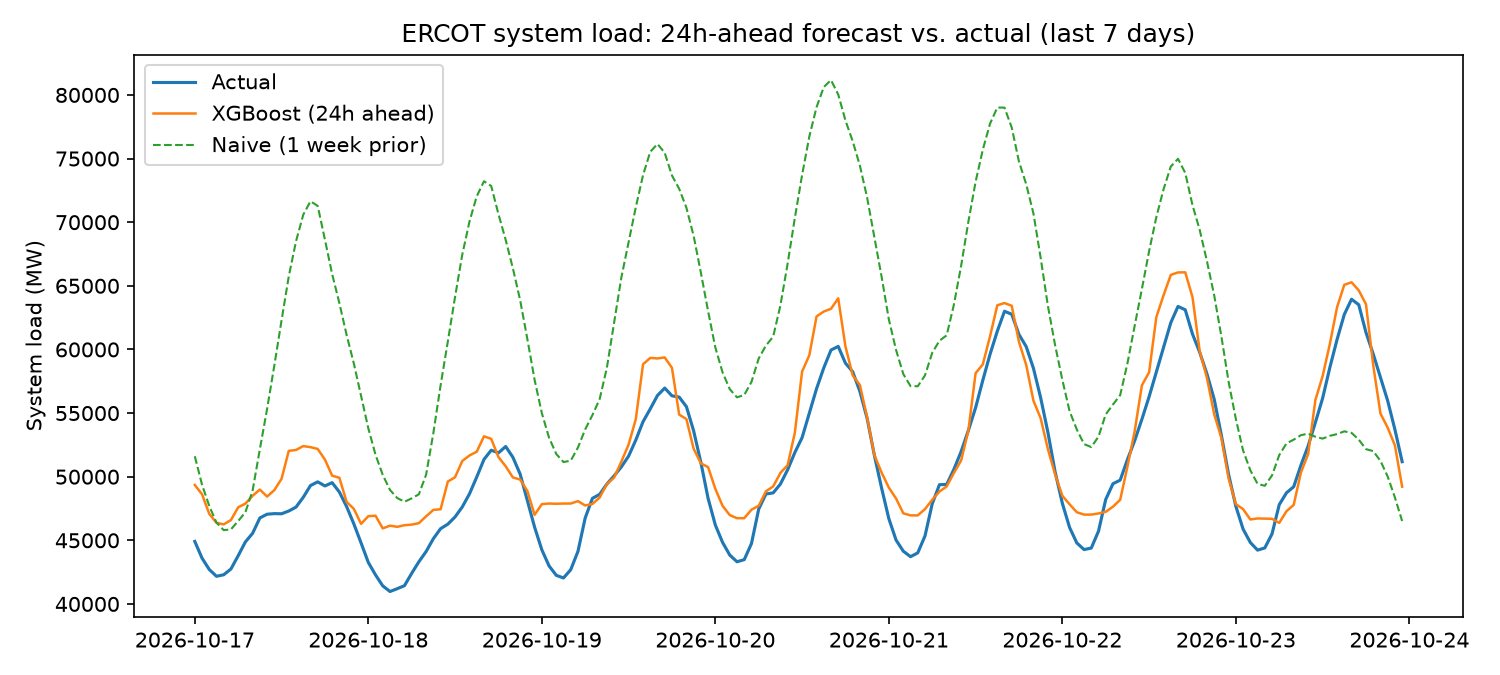
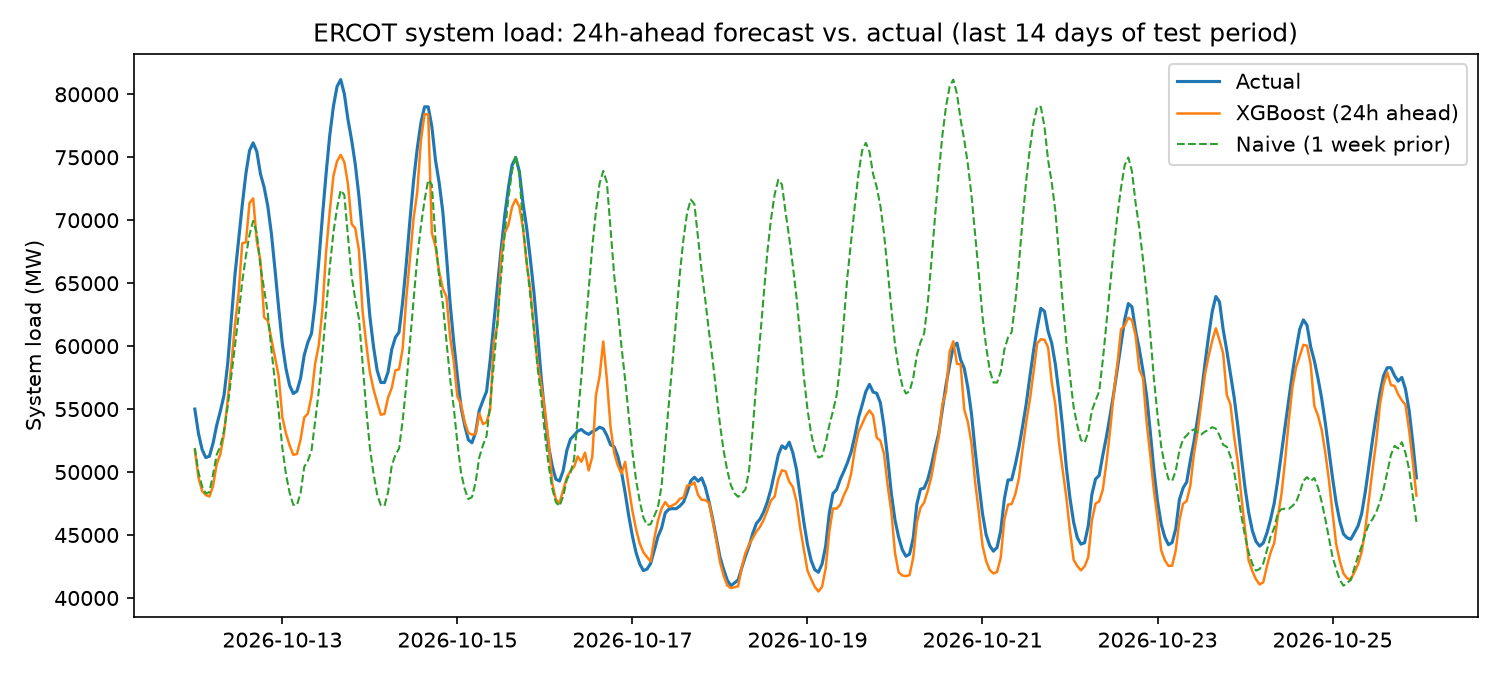
v1: backtest across a seasonal transition, not one week
Pull ~2.5 years of history by combining ERCOT's static annual load
archives with the live feed for the trailing gap, instead of the
~30 days the live feed alone retains. Re-evaluate on a 90-day held-out
window and break results out by month: the model roughly ties the
naive baseline in stable summer weather and pulls far ahead once
temperatures start swinging in October (4.15% vs 14.99% MAPE).

diff --git a/scripts/train_baseline.py b/scripts/train_baseline.py
@@ -1,10 +1,13 @@
 """Train a 24-hour-ahead ERCOT load forecast and compare it to a naive
 weekly-seasonal baseline (load exactly 7 days before the target hour).
 
-Simplification for v0: uses the actual recorded temperature at the target
-hour as a stand-in for a weather *forecast*, since Open-Meteo's forecast
-archive and historical archive aren't the same endpoint. A real forecast
-feed is a known v1 upgrade (see README).
+v1: trains on ~2.5 years of history (2024 through mid-2026) and holds out
+the most recent 90 days as test, so the evaluation spans a real seasonal
+transition (summer heat into fall) rather than one week of one regime.
+
+Simplification carried over from v0: uses the actual recorded temperature
+at the target hour as a stand-in for a weather *forecast*. A real forecast
+feed is still a known follow-up (see README).
 """
 
 from pathlib import Path
@@ -15,7 +18,7 @@ from sklearn.metrics import mean_absolute_error, mean_absolute_percentage_error
 from xgboost import XGBRegressor
 
 HORIZON_HOURS = 24
-TEST_HOURS = 24 * 7  # last 7 days held out
+TEST_DAYS = 90
 
 ROOT = Path(__file__).resolve().parent.parent
 RAW_PATH = ROOT / "data" / "raw" / "ercot_load_weather.csv"
@@ -33,6 +36,7 @@ def build_features(df: pd.DataFrame) -> pd.DataFrame:
 
     out["target_hour"] = df["hour"].shift(-HORIZON_HOURS)
     out["target_dow"] = df["dow"].shift(-HORIZON_HOURS)
+    out["target_month"] = out["target_time"].dt.month
     out["target_is_weekend"] = out["target_dow"].isin([5, 6]).astype(int)
     out["target_temp_c"] = df["temp_c"].shift(-HORIZON_HOURS)
 
@@ -47,37 +51,73 @@ def main() -> None:
     raw = pd.read_csv(RAW_PATH, parse_dates=["Time"])
     data = build_features(raw)
 
-    feature_cols = ["target_hour", "target_dow", "target_is_weekend", "target_temp_c", "load_now", "load_week_before_target"]
-    train = data.iloc[: -TEST_HOURS]
-    test = data.iloc[-TEST_HOURS:]
+    feature_cols = [
+        "target_hour", "target_dow", "target_is_weekend", "target_month",
+        "target_temp_c", "load_now", "load_week_before_target",
+    ]
 
-    model = XGBRegressor(n_estimators=200, max_depth=4, learning_rate=0.05)
+    cutoff = data["target_time"].max() - pd.Timedelta(days=TEST_DAYS)
+    train = data[data["target_time"] <= cutoff]
+    test = data[data["target_time"] > cutoff]
+
+    model = XGBRegressor(n_estimators=300, max_depth=5, learning_rate=0.05)
     model.fit(train[feature_cols], train["target"])
 
-    pred_model = model.predict(test[feature_cols])
-    pred_naive = test["load_week_before_target"].to_numpy()
-    actual = test["target"].to_numpy()
+    test = test.copy()
+    test["pred_model"] = model.predict(test[feature_cols])
+    test["pred_naive"] = test["load_week_before_target"]
 
-    mae_model = mean_absolute_error(actual, pred_model)
-    mae_naive = mean_absolute_error(actual, pred_naive)
-    mape_model = mean_absolute_percentage_error(actual, pred_model)
-    mape_naive = mean_absolute_percentage_error(actual, pred_naive)
+    mae_model = mean_absolute_error(test["target"], test["pred_model"])
+    mae_naive = mean_absolute_error(test["target"], test["pred_naive"])
+    mape_model = mean_absolute_percentage_error(test["target"], test["pred_model"])
+    mape_naive = mean_absolute_percentage_error(test["target"], test["pred_naive"])
 
-    print(f"Rows: train={len(train)}, test={len(test)}")
+    print(f"Train: {train['target_time'].min().date()} to {train['target_time'].max().date()} ({len(train)} rows)")
+    print(f"Test:  {test['target_time'].min().date()} to {test['target_time'].max().date()} ({len(test)} rows)")
     print(f"Naive (same hour, 1 week prior):  MAE={mae_naive:,.0f} MW  MAPE={mape_naive:.2%}")
     print(f"XGBoost (24h ahead):               MAE={mae_model:,.0f} MW  MAPE={mape_model:.2%}")
 
+    # Monthly breakdown — does accuracy hold up across the summer->fall transition?
+    test["month"] = test["target_time"].dt.to_period("M")
+    monthly = test.groupby("month").apply(
+        lambda g: pd.Series({
+            "mape_model": mean_absolute_percentage_error(g["target"], g["pred_model"]),
+            "mape_naive": mean_absolute_percentage_error(g["target"], g["pred_naive"]),
+        }),
+        include_groups=False,
+    )
+    print("\nMonthly MAPE:")
+    print(monthly.to_string(float_format=lambda x: f"{x:.2%}"))
+
     RESULTS_DIR.mkdir(exist_ok=True)
-    fig, ax = plt.subplots(figsize=(10, 4.5))
-    ax.plot(test["target_time"], actual, label="Actual", linewidth=1.5)
-    ax.plot(test["target_time"], pred_model, label="XGBoost (24h ahead)", linewidth=1.2)
-    ax.plot(test["target_time"], pred_naive, label="Naive (1 week prior)", linewidth=1, linestyle="--")
-    ax.set_ylabel("System load (MW)")
-    ax.set_title("ERCOT system load: 24h-ahead forecast vs. actual (last 7 days)")
+
+    # Monthly MAPE bar chart — the headline v1 result (seasonal robustness)
+    fig, ax = plt.subplots(figsize=(9, 4.5))
+    x = range(len(monthly))
+    width = 0.35
+    ax.bar([i - width / 2 for i in x], monthly["mape_naive"] * 100, width, label="Naive (1 week prior)")
+    ax.bar([i + width / 2 for i in x], monthly["mape_model"] * 100, width, label="XGBoost (24h ahead)")
+    ax.set_xticks(list(x))
+    ax.set_xticklabels([str(m) for m in monthly.index], rotation=45, ha="right")
+    ax.set_ylabel("MAPE (%)")
+    ax.set_title(f"24h-ahead forecast error by month (test: last {TEST_DAYS} days)")
     ax.legend()
     fig.tight_layout()
-    fig.savefig(RESULTS_DIR / "forecast_vs_actual.png", dpi=150)
-    print(f"Saved plot to {RESULTS_DIR / 'forecast_vs_actual.png'}")
+    fig.savefig(RESULTS_DIR / "mape_by_month.png", dpi=150)
+    print(f"\nSaved {RESULTS_DIR / 'mape_by_month.png'}")
+
+    # Zoomed-in 14-day snippet for a readable actual-vs-predicted view
+    snippet = test.tail(24 * 14)
+    fig2, ax2 = plt.subplots(figsize=(10, 4.5))
+    ax2.plot(snippet["target_time"], snippet["target"], label="Actual", linewidth=1.5)
+    ax2.plot(snippet["target_time"], snippet["pred_model"], label="XGBoost (24h ahead)", linewidth=1.2)
+    ax2.plot(snippet["target_time"], snippet["pred_naive"], label="Naive (1 week prior)", linewidth=1, linestyle="--")
+    ax2.set_ylabel("System load (MW)")
+    ax2.set_title("ERCOT system load: 24h-ahead forecast vs. actual (last 14 days of test period)")
+    ax2.legend()
+    fig2.tight_layout()
+    fig2.savefig(RESULTS_DIR / "forecast_vs_actual.png", dpi=150)
+    print(f"Saved {RESULTS_DIR / 'forecast_vs_actual.png'}")
 
 
 if __name__ == "__main__":

diff --git a/scripts/fetch_data.py b/scripts/fetch_data.py
@@ -1,9 +1,17 @@
-"""Pull recent ERCOT system load and matching Austin weather, save to data/raw/.
+"""Pull ~3 years of ERCOT system load and matching Austin weather.
 
-ERCOT's public document feed only retains ~30 days of history for the
-"Actual System Load by Weather Zone" report, so this script always pulls
-the trailing LOOKBACK_DAYS window. Re-run periodically and append if you
-want a longer accumulated history.
+Combines two ERCOT sources to get continuous history instead of the ~30
+days available from the live feed alone:
+
+  1. Static annual "Native Load" archives (ercot.com/gridinfo/load/load_hist)
+     - full years, posted with a settlement lag, no auth required.
+  2. The live "Actual System Load by Weather Zone" document feed (via
+     gridstatus) for the trailing window not yet covered by an archive.
+
+NOTE: the archive URLs below are current as of Oct 2026. ERCOT doesn't
+expose a stable index of these files, so the URL for the in-progress
+year will need updating periodically (the "-1-" suffix the current-year
+file uses is a hard-coded versioning quirk, not a predictable pattern).
 """
 
 import os
@@ -20,12 +28,47 @@ import gridstatus  # noqa: E402
 import pandas as pd  # noqa: E402
 import requests  # noqa: E402
 
-LOOKBACK_DAYS = 28
+ARCHIVE_URLS = [
+    "https://www.ercot.com/files/docs/2024/02/06/Native_Load_2024.zip",
+    "https://www.ercot.com/files/docs/2025/02/11/Native_Load_2025.zip",
+    "https://www.ercot.com/files/docs/2026/02/10/Native_Load_2026-1-.zip",
+]
+
 AUSTIN_LAT, AUSTIN_LON = 30.27, -97.74
-RAW_DIR = Path(__file__).resolve().parent.parent / "data" / "raw"
+ROOT = Path(__file__).resolve().parent.parent
+RAW_DIR = ROOT / "data" / "raw"
+CACHE_DIR = RAW_DIR / "_archive_cache"
 
 
-def fetch_ercot_load(start: date, end: date) -> pd.DataFrame:
+def fetch_archive_year(url: str) -> pd.DataFrame:
+    CACHE_DIR.mkdir(parents=True, exist_ok=True)
+    fname = CACHE_DIR / Path(url).name
+    if not fname.exists():
+        resp = requests.get(url, headers={"User-Agent": "Mozilla/5.0 (research)"}, timeout=60)
+        resp.raise_for_status()
+        fname.write_bytes(resp.content)
+
+    xlsx_path = fname.with_suffix(".xlsx")
+    if not xlsx_path.exists():
+        import zipfile
+
+        with zipfile.ZipFile(fname) as zf:
+            xlsx_name = [n for n in zf.namelist() if n.endswith(".xlsx")][0]
+            zf.extract(xlsx_name, CACHE_DIR)
+            (CACHE_DIR / xlsx_name).rename(xlsx_path)
+
+    df = pd.read_excel(xlsx_path)
+    date_part = df["Hour Ending"].str.slice(0, 10)
+    hour_part = df["Hour Ending"].str.slice(11, 13).astype(int)
+    # Hour Ending HH means the hour that just ended at HH:00; the hour
+    # *started* at HH-1:00 on the same calendar date (24:00 -> 23:00 start,
+    # still same date under this convention).
+    base_date = pd.to_datetime(date_part, format="%m/%d/%Y")
+    df["Time"] = base_date + pd.to_timedelta(hour_part - 1, unit="h")
+    return df[["Time", "ERCOT"]].rename(columns={"ERCOT": "load_mw"})
+
+
+def fetch_live_load(start: date, end: date) -> pd.DataFrame:
     iso = gridstatus.Ercot()
     df = iso.get_load_by_weather_zone(start.isoformat(), end=end.isoformat())
     df = df[["Time", "System Total"]].rename(columns={"System Total": "load_mw"})
@@ -44,7 +87,7 @@ def fetch_weather(start: date, end: date) -> pd.DataFrame:
             "hourly": "temperature_2m",
             "timezone": "America/Chicago",
         },
-        timeout=30,
+        timeout=60,
     )
     resp.raise_for_status()
     hourly = resp.json()["hourly"]
@@ -52,14 +95,26 @@ def fetch_weather(start: date, end: date) -> pd.DataFrame:
 
 
 def main() -> None:
-    end = date.today() - timedelta(days=1)
-    start = end - timedelta(days=LOOKBACK_DAYS)
+    print("Fetching static archives (2024-2026)...")
+    archive_frames = [fetch_archive_year(url) for url in ARCHIVE_URLS]
+    archive_df = pd.concat(archive_frames).drop_duplicates("Time").sort_values("Time")
+    archive_end = archive_df["Time"].max().date()
 
-    print(f"Fetching ERCOT load {start} to {end}...")
-    load_df = fetch_ercot_load(start, end)
+    live_start = archive_end + timedelta(days=1)
+    live_end = date.today() - timedelta(days=1)
+    if live_start <= live_end:
+        print(f"Fetching live feed {live_start} to {live_end} (post-archive gap)...")
+        live_df = fetch_live_load(live_start, live_end)
+        load_df = pd.concat([archive_df, live_df]).drop_duplicates("Time").sort_values("Time")
+    else:
+        load_df = archive_df
 
-    print(f"Fetching Austin weather {start} to {end}...")
-    weather_df = fetch_weather(start, end)
+    overall_start = load_df["Time"].min().date()
+    overall_end = load_df["Time"].max().date()
+    print(f"Combined load history: {overall_start} to {overall_end} ({len(load_df)} hourly rows)")
+
+    print("Fetching Austin weather for the full span...")
+    weather_df = fetch_weather(overall_start, overall_end)
 
     merged = pd.merge(load_df, weather_df, on="Time", how="inner").sort_values("Time")
 

diff --git a/README.md b/README.md
@@ -3,34 +3,45 @@
 Short-horizon (24h-ahead) load forecasting for the Texas grid, benchmarked
 against a naive seasonal baseline.
 
-Status: **v0 — working prototype.** Part of [Bat City AI](https://batcityai.com)'s
-Year One programs.
+Status: **v1 — backtested across a seasonal transition.** Part of
+[Bat City AI](https://batcityai.com)'s Year One programs.
 
 ## Result (most recent run)
 
-24-hour-ahead forecast vs. a naive "same hour, one week prior" baseline,
-evaluated on the trailing 7 days held out of training:
+Trained on ~2.5 years of hourly data (Jan 2024 – Jul 2026), evaluated on the
+trailing 90 days held out of training — a window that itself spans the
+transition from summer heat into fall:
 
 | Model | MAE | MAPE |
 |---|---|---|
-| Naive (1 week prior) | 11,847 MW | 23.34% |
-| XGBoost (24h ahead) | 2,151 MW | 4.43% |
+| Naive (1 week prior) | 3,842 MW | 6.30% |
+| XGBoost (24h ahead) | 2,407 MW | 3.53% |
 
-![Forecast vs actual](results/forecast_vs_actual.png)
+![Forecast error by month](results/mape_by_month.png)
 
-The naive baseline overshoots badly here because temperatures were dropping
-week-over-week into fall — a pattern a same-hour-last-week lookup can't see,
-but the model's temperature feature can.
+The monthly breakdown is the interesting part: in July and August, when the
+weather is just "hot," the naive baseline is roughly as good as the model —
+same-hour-last-week is a solid predictor when nothing is changing. The gap
+opens up hard in October (14.99% vs. 4.15% MAPE) as temperatures start
+swinging week to week. The naive baseline has no way to see that; the
+model's temperature feature does.
+
+![Forecast vs actual, last 14 days](results/forecast_vs_actual.png)
 
 ## How it works
 
-1. `scripts/fetch_data.py` pulls ERCOT's public "Actual System Load by
-   Weather Zone" report (via [gridstatus](https://github.com/kmax12/gridstatus),
-   no auth required) and matching Austin temperature from
+1. `scripts/fetch_data.py` combines ERCOT's static annual
+   ["Native Load" archives](https://www.ercot.com/gridinfo/load/load_hist)
+   (full years, posted with a settlement lag) with the live "Actual System
+   Load by Weather Zone" feed (via [gridstatus](https://github.com/kmax12/gridstatus))
+   for the trailing days not yet archived — giving continuous history from
+   Jan 2024 through yesterday instead of the ~30 days the live feed alone
+   retains. Matching Austin temperature comes from
    [Open-Meteo](https://open-meteo.com)'s free historical archive.
 2. `scripts/train_baseline.py` builds lag + calendar + temperature features,
    trains an XGBoost regressor to predict load 24 hours out, and compares it
-   to the naive baseline on a held-out week.
+   to the naive baseline on a 90-day held-out test window, with a monthly
+   error breakdown.
 
 ## Setup
 
@@ -46,24 +57,28 @@ python3 scripts/fetch_data.py
 python3 scripts/train_baseline.py
 ```
 
-## Known limitations (v1 candidates)
+## Known limitations (v2 candidates)
 
-- **30-day data window.** ERCOT's live document feed only retains ~30 days
-  of history for this report, so the model trains on ~3 weeks of hourly
-  data after feature lags are trimmed. No way yet to see full seasonal
-  (summer/winter) patterns. ERCOT publishes static annual historical load
-  archives separately — pulling those in is the highest-leverage v1 change.
 - **Temperature is not a forecast.** The model uses the *actual* recorded
   temperature at the target hour as a stand-in for a weather forecast,
   since this is a historical-data pipeline. A real deployment would need a
   genuine weather forecast feed, which has its own error and would make
   the model's real-world accuracy somewhat worse than shown here.
 - **Single weather station.** Austin only; ERCOT spans multiple climate
-  zones (Houston humidity, West Texas heat, Panhandle cold snaps).
+  zones (Houston humidity, West Texas heat, Panhandle cold snaps). The
+  data already includes per-weather-zone load (Coast, East, Far West,
+  North, North Central, South, South Central, West) — adding a matching
+  station per zone is the next obvious lever.
+- **ERCOT archive URLs aren't stable.** The static yearly files are
+  hand-coded in `fetch_data.py`; the current year's filename has an
+  inconsistent versioning suffix, so the URL list needs occasional manual
+  updates.
 
 ## Data sources
 
-- ERCOT public load data — [ERCOT MIS](https://www.ercot.com), via `gridstatus`
+- ERCOT public load data — [ERCOT MIS](https://www.ercot.com)
+  ([hourly load archives](https://www.ercot.com/gridinfo/load/load_hist) +
+  live feed via `gridstatus`)
 - Weather — [Open-Meteo](https://open-meteo.com) historical archive (free, no key)
 
 ## License
